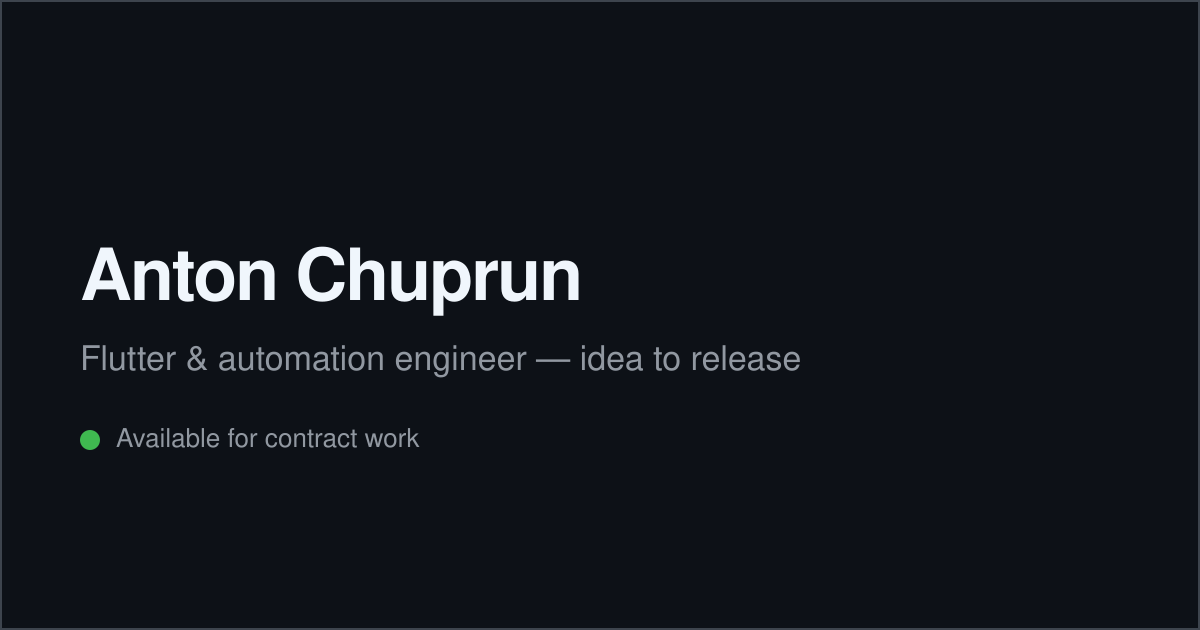
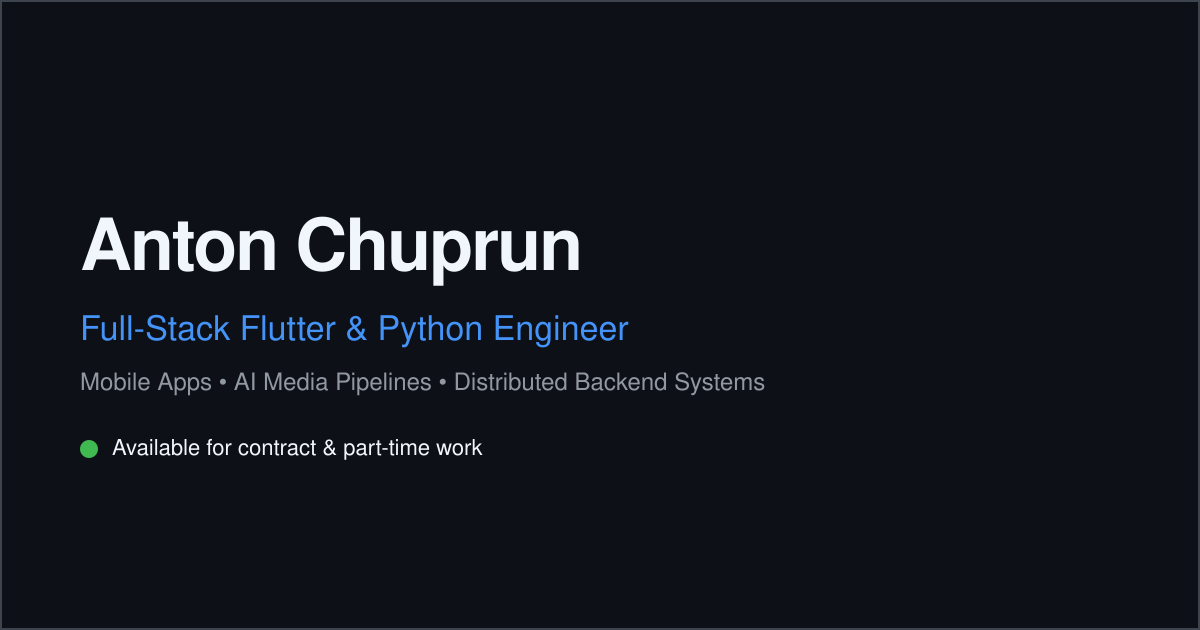
feat: add targeted landing routes (/python, /flutter, /mobile) with custom Open Graph previews and case sorting

Changed region(s): [[0.0617, 0.3317, 0.6783, 0.6333], [0.0617, 0.6635, 0.4008, 0.7238]]

diff --git a/telegram_cv_flutter.md b/telegram_cv_flutter.md
@@ -6,7 +6,7 @@
 ⏰ **Занятость:** Part-time (в приоритете) / Full-time / Проектная
 🛠 **Опыт:** 6 лет в коммерческой разработке
 💰 **Ставка:** от $20 / час или от $2,000 / месяц (USDT, 4dev, Mellow)
-🌐 **Портфолио:** https://antonchuprun.site
+🌐 **Сайт-визитка и демо:** https://antonchuprun.site/flutter
 💻 **GitHub:** https://github.com/9ckobn
 📩 **Связь:** @unitony
 

diff --git a/telegram_cv_python.md b/telegram_cv_python.md
@@ -6,7 +6,7 @@
 ⏰ **Занятость:** Part-time (в приоритете) / Full-time / Проектная
 🛠 **Опыт:** 6 лет в коммерческой разработке
 💰 **Ставка:** от $20 / час или от $2,000 / месяц (USDT, 4dev, Mellow)
-🌐 **Портфолио:** https://antonchuprun.site
+🌐 **Сайт-визитка и демо:** https://antonchuprun.site/python
 💻 **GitHub:** https://github.com/9ckobn
 📩 **Связь:** @unitony
 
